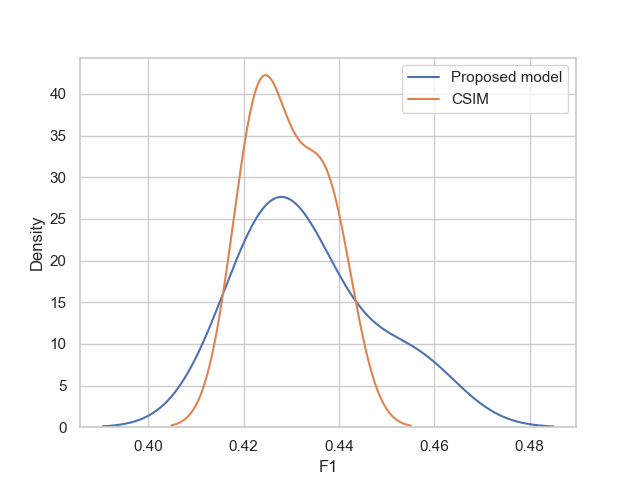
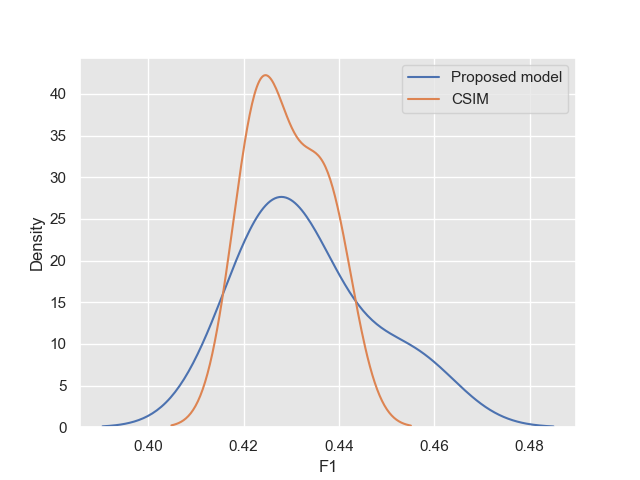
fver

diff --git a/plots/kde_plots.py b/plots/kde_plots.py
@@ -25,14 +25,16 @@ hid = hid.transpose()
 
 sns.set_theme(style="whitegrid")
 sns.set_style("darkgrid", {"axes.facecolor": ".9"})
-sns.set_context("paper", font_scale=1.4)
 sns.kdeplot(x= hid["Accuracy"], label="Proposed model", data = hid)
 sns.kdeplot(data=chen["Accuracy"], label="CSIM")
 plt.legend()
 # plt.savefig("../Out/KDE_acc_CSIM_Proposed")
-plt.show()
 plt.clf()
-
+sns.set_theme(style="whitegrid")
+sns.set_style("darkgrid", {"axes.facecolor": ".9"})
+sns.kdeplot(data= hid["F1"], label="Proposed model")
+sns.kdeplot(data=chen["F1"], label="CSIM")
+plt.legend()
 # plt.show()
 # plt.savefig("../Out/KDE_F1_CSIM_Proposed")
 
